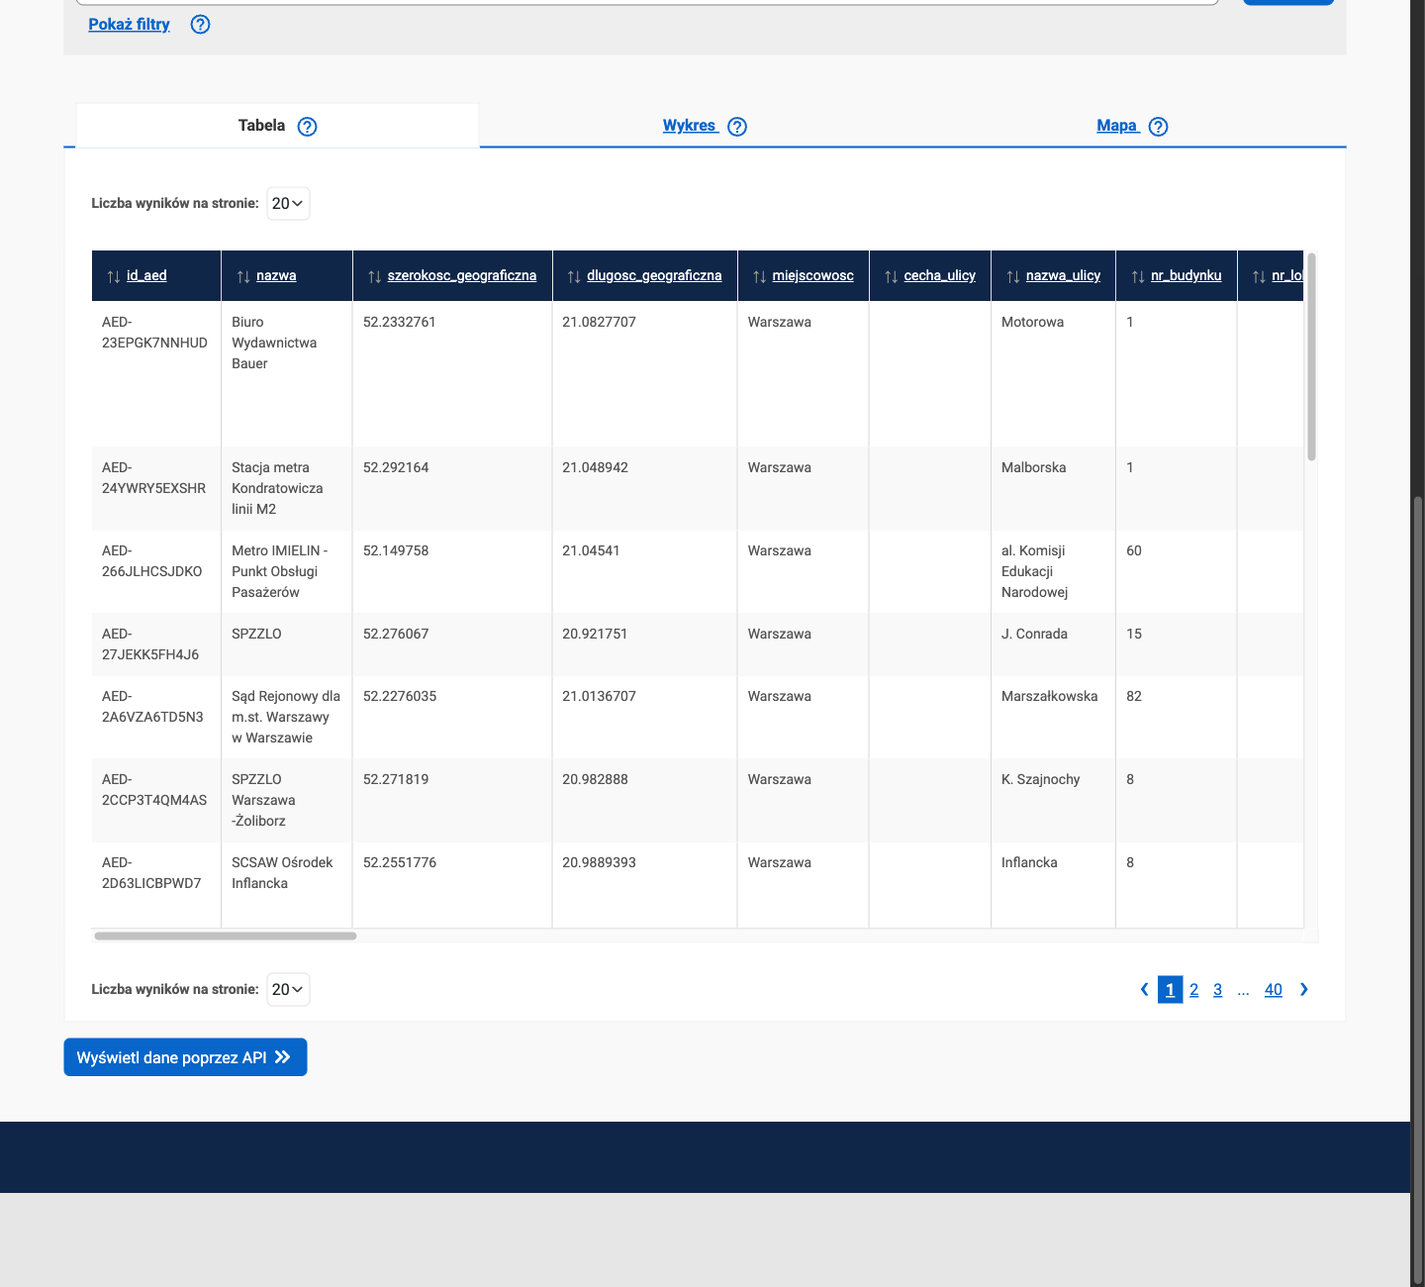
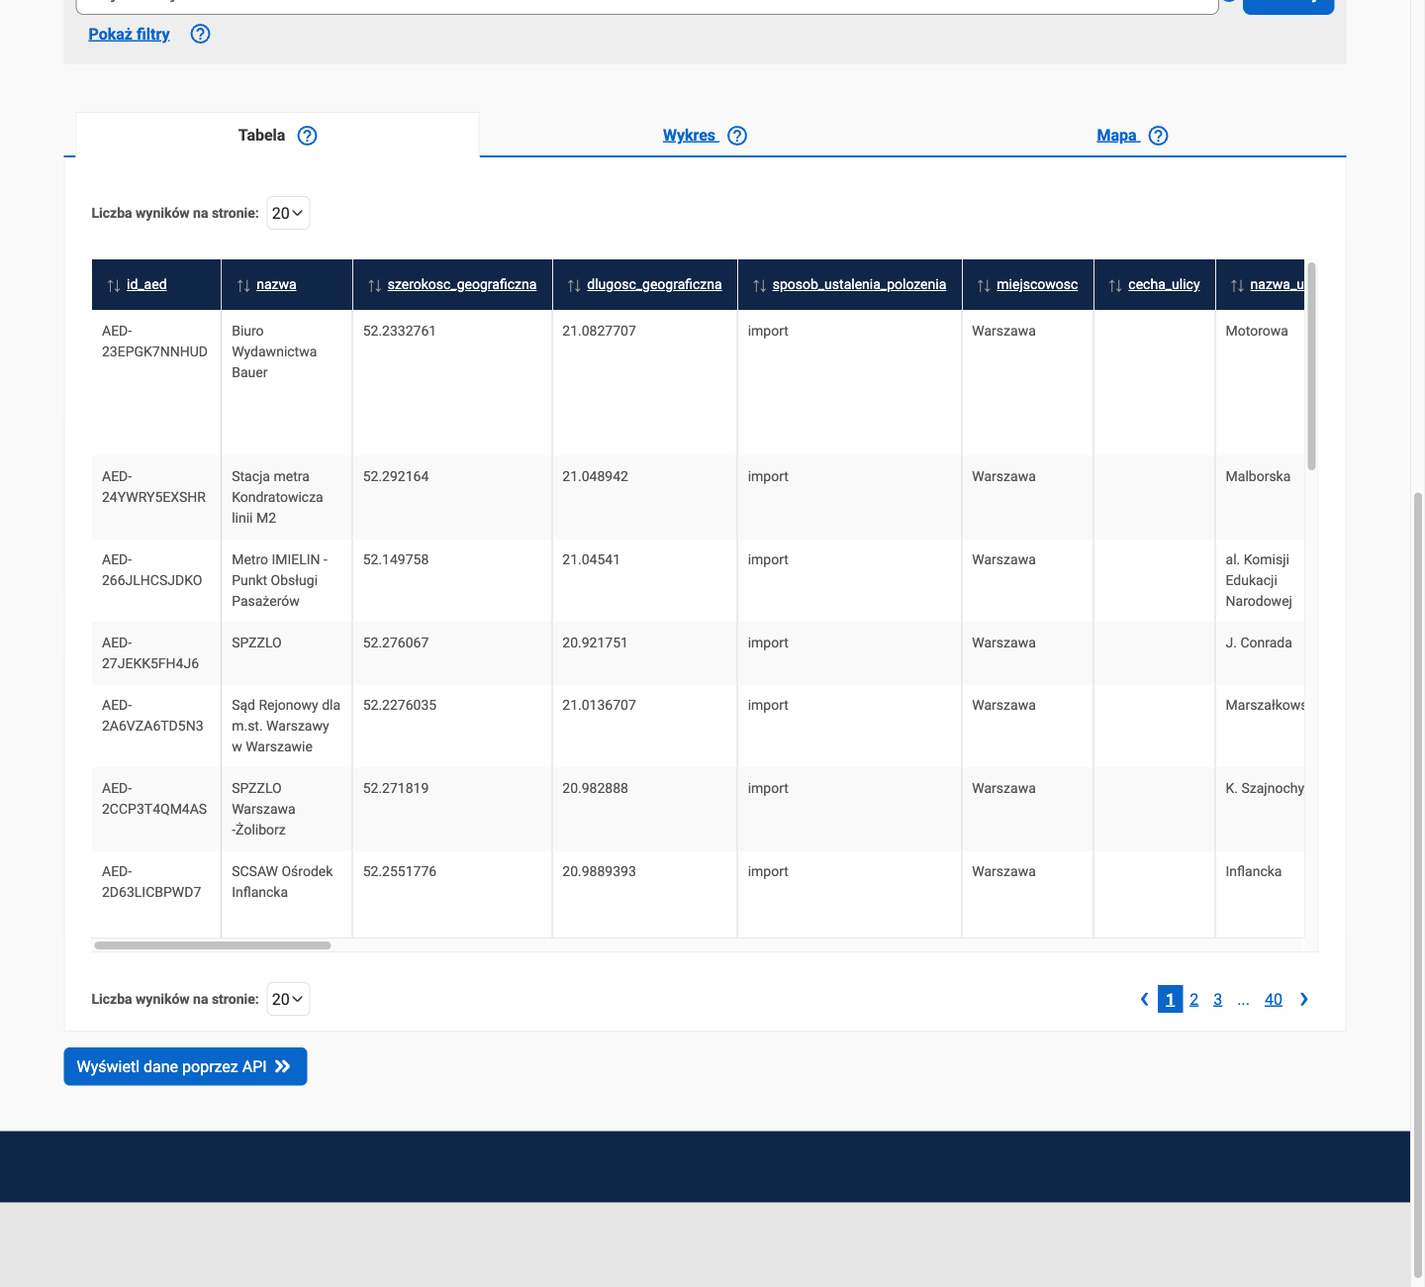
feat: portal module on data standard 0.3.0; warnings never trigger provider e-mails
- fixed descriptions for every problem code the standard can emit, guarded by a test
- lists in the 0.2.0 layout are accepted; the national list comes out with 42 columns and 'zweryfikowany'
- repeat notice depends on status, rejected rows and errors only, not on warnings or wording
- container tests after the last change: 169 passed (AED, DGA, admin, Celery), 13 API

diff --git a/backend/mcod/aed/tests/test_aed_utils.py b/backend/mcod/aed/tests/test_aed_utils.py
@@ -1,10 +1,17 @@
 """Modelled on mcod/resources/tests/test_main_dga.py. Needs the portal test stack (Postgres, Docker)."""
+import csv
 import datetime
+import io
+import re
 from pathlib import Path
 from unittest.mock import patch
 
 import pytest
 from django.core.files.uploadedfile import SimpleUploadedFile
+
+import aed_standard
+from aed_standard import schema as S
+from aed_standard.validate import WARNING
 
 from mcod.aed import constants as C
 from mcod.aed.aed_utils import (
@@ -14,10 +21,12 @@ from mcod.aed.aed_utils import (
     create_main_aed_resource_with_dataset,
     get_all_aed_list_resources,
     main_aed_tabular_schema,
+    public_report,
     update_or_create_aggr_aed_info_and_delete_old_main_aed,
     validate_aed_list_file,
 )
 from mcod.aed.models import AggregatedAEDInfo
+from mcod.aed.notifications import lists_to_notify
 from mcod.core.tests.helpers.tasks import run_on_commit_events
 from mcod.datasets.factories import DatasetFactory
 from mcod.datasets.models import Dataset
@@ -106,6 +115,47 @@ def test_main_aed_tabular_schema_has_map_markers():
     assert tds["geo"]["l"]["col_name"] == "dlugosc_geograficzna"
     assert tds["geo"]["label"]["col_name"] == "nazwa"
     assert {f["type"] for f in tds["fields"] if f.get("geo") in ("b", "l")} == {"number"}
+    # Built from the standard's column order (0.3.0: sposob_ustalenia_polozenia after the coordinates): every marker
+    # points at its own column, and every other column, pietro (integer in the standard) included, is text, so
+    # empty cells pass the portal's tabular validation.
+    assert names == S.FIELD_NAMES and len(names) == 42
+    assert all(names[m["col_index"]] == m["col_name"] for m in tds["geo"].values())
+    assert {f["name"] for f in tds["fields"] if f["type"] != "string"} == {"szerokosc_geograficzna", "dlugosc_geograficzna"}
+
+
+def test_every_standard_problem_code_has_a_public_description():
+    """The public report and the e-mail show C.PROBLEM_DESCRIPTIONS, never aed_standard's raw messages. Codes are read
+    from aed_standard's source, so a new code in the standard without a description fails here."""
+    source = "".join(p.read_text(encoding="utf-8") for p in Path(aed_standard.__file__).parent.glob("*.py"))
+    codes = set()
+    for pattern in (r'issue\([^,()]+,\s*[^,()]+,\s*(?:ERROR|WARNING),\s*"(\w+)"',  # issue(row, field, level, code, ...)
+                    r'\[\("(\w+)"',  # check_value: [(code, message)]
+                    r'fail\("(\w+)"',  # validate_csv: fail(code, message)
+                    r'code="(\w+)"'):  # wykaz.rejected(..., code="odczyt")
+        codes |= set(re.findall(pattern, source))
+    assert {"terc_bez_rodzaju", "godziny_nieczytelne", "dysponent_osoba", "wymagane_dla_zweryfikowanego"} <= codes
+    assert sorted(codes - set(C.PROBLEM_DESCRIPTIONS)) == []
+
+
+def test_list_in_schema_0_2_0_is_accepted_into_a_0_3_0_national_list():
+    """A provider's list in the 0.2.0 header (no new columns, status "aktywny") keeps working: accepted in full,
+    the 6-digit TERC is only a warning (status stays "przyjety", no e-mail), the national list has the 0.3.0
+    header and the alias becomes "zweryfikowany"."""
+    old = (DATA_DIR / "wykaz_schemat_0_2_0.csv").read_bytes()
+    assert b"sposob_ustalenia_polozenia" not in old and b",aktywny," in old
+    resource = ResourceFactory.create(contains_aed_list=True, status="published")
+
+    with patch("mcod.aed.aed_utils.read_resource_bytes", return_value=(old, None)):
+        content, report = build_main_aed_list([resource])
+
+    entry = report["wykazy"][0]
+    assert (entry["status"], entry["przyjete"], entry["wiersze"]) == ("przyjety", 2, 2)
+    assert [(p["kod"], p["poziom"]) for p in entry["problemy"]] == [("terc_bez_rodzaju", WARNING)]
+    assert public_report(report)["wykazy"][0]["problemy"][0]["opis"] == C.PROBLEM_DESCRIPTIONS["terc_bez_rodzaju"]
+    assert lists_to_notify(None, report) == []
+    rows = list(csv.DictReader(io.StringIO(content)))
+    assert list(rows[0]) == S.FIELD_NAMES
+    assert {r["status"] for r in rows} == {"zweryfikowany", "niepotwierdzony"}
 
 
 def test_update_aggr_aed_info_replaces_old_resource():
@@ -137,6 +187,7 @@ def test_main_aed_resource_end_to_end_with_portal_validation(aed_owner):
     """The task's steps on real files, with the portal's own file and tabular data validation (eager Celery)."""
     legionowo = _aed_list_resource("legionowo_resource_2625221.csv")
     krosno = _aed_list_resource("krosno_resource_54632.csv")
+    old_header = _aed_list_resource("wykaz_schemat_0_2_0.csv")
     run_on_commit_events()
 
     file_path, report = create_main_aed_file()
@@ -148,7 +199,7 @@ def test_main_aed_resource_end_to_end_with_portal_validation(aed_owner):
     clean_up_after_main_aed_resource_creation(exception_occurred=False)
 
     statuses = {w["zasob"]: w["status"] for w in report["wykazy"]}
-    assert statuses == {legionowo.pk: "przyjety", krosno.pk: "odrzucony"}
+    assert statuses == {legionowo.pk: "przyjety", krosno.pk: "odrzucony", old_header.pk: "przyjety"}
     resource.refresh_from_db()
     assert resource.format == "csv"
     assert resource.tabular_data_schema["geo"]["b"]["col_name"] == "szerokosc_geograficzna"

diff --git a/backend/mcod/aed/constants.py b/backend/mcod/aed/constants.py
@@ -61,14 +61,18 @@ PROBLEM_DESCRIPTIONS = {
     "brak_kolumny": "Brak kolumny wymaganej przez standard AED.",
     "brak_wierszy": "Plik nie zawiera wierszy z danymi.",
     "brak_wymaganego": "Brak wartości w polu wymaganym.",
+    "dane_osm": "Wiersz pochodzi z OpenStreetMap (licencja ODbL), której nie włączamy do zbioru krajowego.",
     "dane_osobowe": "Pole może zawierać dane osobowe, których nie publikujemy.",
     "data_z_przyszlosci": "Data z przyszłości.",
+    "duplikat_numeru_seryjnego": "Ten sam producent i numer seryjny występuje w wykazie więcej niż raz.",
+    "dysponent_osoba": "Nazwa dysponenta wygląda na imię i nazwisko osoby; podaj nazwę instytucji.",
     "format_csv": "Plik nie jest poprawnym plikiem CSV.",
-    "format_daty": "Data nie jest w formacie RRRR-MM-DD.",
+    "format_daty": "Data nie jest w formacie RRRR-MM-DD (albo RRRR-MM, gdzie standard na to pozwala).",
     "format_email": "Niepoprawny adres e-mail.",
     "format_liczby": "Wartość nie jest liczbą.",
     "format_liczby_calkowitej": "Wartość nie jest liczbą całkowitą.",
     "format_pola": "Wartość ma niepoprawny format.",
+    "godziny_nieczytelne": "Z godzin dostępu nie da się wyliczyć, czy urządzenie jest teraz dostępne (zapis np. 24/7 albo Mo-Fr 08:00-16:00).",
     "kod_do_szafki": "Pole może zawierać kod do szafki, którego nie publikujemy.",
     "kodowanie": "Plik nie jest zapisany w kodowaniu UTF-8.",
     "licencja": "Licencja zbioru nie pozwala włączyć wykazu do zbioru krajowego.",
@@ -83,16 +87,19 @@ PROBLEM_DESCRIPTIONS = {
     "poza_polska": "Współrzędne poza Polską.",
     "poza_zakresem": "Wartość poza dozwolonym zakresem.",
     "przecinek_dziesietny": "Liczba zapisana z przecinkiem zamiast kropki.",
+    "pole_za_dlugie": "Wartość jest za długa do odczytu; zwykle brakuje zamykającego cudzysłowu.",
     "pusta_nazwa_kolumny": "Kolumna bez nazwy.",
     "pusty_plik": "Plik jest pusty.",
     "separator": "Separatorem pól musi być przecinek.",
     "spoza_slownika": "Wartość spoza słownika standardu AED.",
+    "terc_bez_rodzaju": "Kod TERC ma 6 cyfr, bez cyfry rodzaju gminy (kanoniczny kod ma 7 cyfr).",
     "termin_minal": "Termin ważności minął.",
     "wartosc_logiczna": "Niepoprawna wartość logiczna.",
     "wiersz_w_cudzyslowie": "Cały wiersz ujęty w cudzysłów.",
     "wspolrzedne_niepelne": "Podano tylko jedną ze współrzędnych.",
     "wspolrzedne_zamienione": "Szerokość i długość geograficzna są zamienione.",
-    "wymagane_dla_aktywnego": "Brak pola wymaganego dla urządzenia aktywnego.",
+    "wymagane_dla_zweryfikowanego": "Brak pola wymaganego dla urządzenia zweryfikowanego.",
+    "wymagane_dla_aktywnego": "Brak pola wymaganego dla urządzenia zweryfikowanego.",  # code before standard 0.3.0, in stored reports
     "znak_nul": "Plik zawiera niedozwolony znak NUL.",
 }
 PROBLEM_DESCRIPTION_DEFAULT = "Niezgodność ze standardem AED."

diff --git a/backend/mcod/aed/tests/test_notifications.py b/backend/mcod/aed/tests/test_notifications.py
@@ -90,3 +90,25 @@ def test_mail_backend_error_marks_all_entries():
     with patch("mcod.aed.notifications.get_connection", side_effect=RuntimeError("no backend")):
         report = _merge(resource, KROSNO)
     assert all(w.get("powiadomienie_oczekuje") for w in report["wykazy"])
+
+
+def test_warnings_alone_never_send_mail():
+    """Warnings (e.g. a 6-digit TERC, standard 0.3.0) do not lower the list's status and do not send or repeat the
+    mail: a list accepted with warnings gets none, and a partly accepted list is not mailed again when only its
+    warnings change."""
+    header = "nazwa,miejscowosc,kod_terc,szerokosc_geograficzna,dlugosc_geograficzna,dostep\n"
+    good, warned = "Urząd,Legionowo,1408011,52.395198,20.931382,publiczny\n", "Urząd,Legionowo,140801,52.395198,20.931382,publiczny\n"
+    outside = "Szkoła,Legionowo,,10.0,10.0,publiczny\n"  # coordinates outside Poland: the row is rejected
+
+    first = _provider_list()
+    accepted = _merge(first, (header + warned).encode("utf-8"))
+    assert accepted["wykazy"][0]["status"] == "przyjety" and accepted["wykazy"][0]["problemy"][0]["kod"] == "terc_bez_rodzaju"
+    assert len(mail.outbox) == 0
+
+    first.contains_aed_list = False  # out of the next merges
+    first.save()
+    resource = _provider_list()
+    _merge(resource, (header + good + outside).encode("utf-8"))
+    assert len(mail.outbox) == 1 and mail.outbox[0].subject.startswith("Wykaz AED przyjęty częściowo")
+    _merge(resource, (header + warned + outside).encode("utf-8"))  # same errors, one warning more
+    assert len(mail.outbox) == 1

diff --git a/backend/mcod/aed/notifications.py b/backend/mcod/aed/notifications.py
@@ -36,8 +36,10 @@ def public_problem(p: Dict[str, Any]) -> Dict[str, Any]:
 
 
 def _signature(entry: Dict[str, Any]):
-    problems = tuple((p["wiersz"], p["pole"], p["kod"], p["komunikat"]) for p in entry.get("problemy", []))
-    return entry["status"], entry.get("wiersze", 0) - entry.get("przyjete", 0), entry.get("problemy_razem", 0), problems
+    """What the provider is told about: status, rejected rows and the errors by code. Warnings and aed_standard's
+    wording are left out, so a new warning or a reworded message in the standard does not send the mail again."""
+    errors = tuple((p["wiersz"], p["pole"], p["kod"]) for p in entry.get("problemy", []) if p.get("poziom") == ERROR)
+    return entry["status"], entry.get("wiersze", 0) - entry.get("przyjete", 0), errors
 
 
 def lists_to_notify(old_report: Optional[Dict[str, Any]], new_report: Dict[str, Any]) -> List[Dict[str, Any]]:

diff --git a/docs/wykaz-aed-w-portalu.md b/docs/wykaz-aed-w-portalu.md
@@ -319,3 +319,39 @@ Harvestera XML na pliku z usługi (`/api/aed/eksport/dane-gov-pl.xml`) nie uruch
 - Odrzucenie Krosna: na górze formularza ogólny komunikat Django „Proszę, popraw poniższy błąd.”, przy polu 10 komunikatów po polsku z instrukcją („Popraw nazwę zgodnie z arkuszem „Słownik pól” albo usuń kolumnę”, „Czy chodziło o „nazwa”?”, „Dodaj ją do nagłówka”). Po błędzie panel czyści pole pliku – zachowanie oryginalnego portalu.
 - Legionowo w zbiorze jury – zapisane; przełączenie TAK → NIE → TAK – zapisane; Legionowo z TAK w zbiorze Legionowa (konto jury) – odmowa „Wykaz AED można oznaczyć tylko w zbiorze swojej instytucji.”. Zasoby testowe usunięte.
 - Zbiór 4214: CC BY 4.0 z warunkami, kategoria Zdrowie, tagi AED / defibrylator / wykaz zbiorczy, „Codziennie”. Opisy zbioru i zasobu w bazie demo były starsze niż stałe w `constants.py` (scalanie przenosi opis poprzedniego zasobu, jak DGA – ręczna zmiana redaktora zostaje); w danych demo nadpisane bieżącym tekstem. Mapy i wykresy zasobu zbiorczego: `nazwa` = Etykieta, `szerokosc_geograficzna` = Szerokość, `dlugosc_geograficzna` = Długość geograficzna.
+
+## Standard 0.3.0 w portalu (22.11, ok. 06:30–07:30)
+
+**Dla dostawcy nic się nie zmienia.** Wykaz w nagłówku 0.2.0 (38 kolumn, bez `sposob_ustalenia_polozenia`, `pietro`, `stan_urzadzenia`, `data_stanu`, ze statusem `aktywny`) jest przyjmowany jak dotąd: brakujące kolumny są opcjonalne, `aktywny` to alias zamieniany na `zweryfikowany`. Formularz panelu i scalanie czytają plik tym samym `aed_standard`, więc nie trzeba zmieniać ani plików, ani zaczepów portalu.
+
+**Wykaz krajowy (zasób zbiorczy) ma nagłówek 0.3.0 – 42 kolumny** w kolejności z `aed_standard/schema.json`:
+
+```
+id_aed,nazwa,szerokosc_geograficzna,dlugosc_geograficzna,sposob_ustalenia_polozenia,miejscowosc,cecha_ulicy,nazwa_ulicy,nr_budynku,nr_lokalu,kod_pocztowy,kod_terc,kod_simc,opis_lokalizacji,wewnatrz_budynku,pietro,dostep,godziny_dostepu,godziny_dostepu_opis,producent,model,numer_seryjny,data_produkcji,data_waznosci_elektrod,data_waznosci_baterii,dysponent_nazwa,dysponent_regon,dysponent_email,dysponent_telefon,wprowadzajacy_typ,wprowadzajacy_nazwa,status,data_weryfikacji,sposob_weryfikacji,stan_urzadzenia,data_stanu,data_aktualizacji,zrodlo,zrodlo_id,licencja,powiazane_zrodla,kompletnosc
+```
+
+`main_aed_tabular_schema()` buduje schemat zasobu zbiorczego z tej listy, więc znaczniki mapy idą za kolumnami: `b` = `szerokosc_geograficzna` (indeks 2), `l` = `dlugosc_geograficzna` (3), `label` = `nazwa` (1). Liczbami są tylko współrzędne; reszta, w tym `pietro` (w standardzie liczba całkowita) i daty `RRRR-MM`, jest tekstem, więc puste komórki przechodzą walidację portalu. Wykaz dostawcy bez `sposob_ustalenia_polozenia` dostaje przy scalaniu `import`, gdy ma współrzędne (reguła `aed_standard/wykaz.py`).
+
+Zmiany w `mcod/aed`:
+
+- `constants.py`: stałe opisy dla kodów `wymagane_dla_zweryfikowanego` (dawny `wymagane_dla_aktywnego` zostaje jako alias dla raportów zapisanych w bazie), `terc_bez_rodzaju`, `godziny_nieczytelne`, `dysponent_osoba` oraz dla kodów, które wcześniej nie miały opisu i trafiały do raportu jako „Niezgodność ze standardem AED.”: `dane_osm`, `duplikat_numeru_seryjnego`, `pole_za_dlugie`; opis `format_daty` dopuszcza `RRRR-MM`.
+- Test `test_every_standard_problem_code_has_a_public_description` czyta kody ze źródeł `aed_standard` (wywołania `issue(...)`, `check_value`, `fail(...)`, `rejected(code=...)`) i porównuje z `PROBLEM_DESCRIPTIONS` – kolejny kod w standardzie bez opisu zatrzyma testy.
+- `notifications.py`: podpis wyniku wykazu, od którego zależy ponowny e-mail, to status, liczba odrzuconych wierszy i **błędy** (wiersz, pole, kod). Wcześniej obejmował też ostrzeżenia i surowe komunikaty `aed_standard`, więc nowe ostrzeżenie albo zmiana brzmienia komunikatu w standardzie wysyłały dostawcy ten sam e-mail drugi raz. Tak stało się przy pierwszym scalaniu po 0.3.0: Krosno (odrzucone, bez zmian w pliku) dostało ponowną wiadomość o 06:41 (MailHog), choć jego plik i kody błędów się nie zmieniły (wcześniejsze scalania 03:47–05:01 nie wysyłały nic) – zmieniła się treść komunikatów `aed_standard` 0.3.0 zapisana w raporcie. Po poprawce test `test_warnings_alone_never_send_mail`.
+- Testy: `test_list_in_schema_0_2_0_is_accepted_into_a_0_3_0_national_list` (plik `tests/data/wykaz_schemat_0_2_0.csv`: nagłówek 0.2.0, wiersz Warszawy ze statusem `aktywny`, wiersz Legionowa z 6-cyfrowym TERC – przyjęty w całości, jedno ostrzeżenie, bez e-maila, wykaz krajowy w nagłówku 0.3.0 ze statusem `zweryfikowany`); test schematu tabeli (42 kolumny, znaczniki na właściwych kolumnach, poza współrzędnymi tylko tekst); test od końca do końca przez walidację portalu ma dodatkowo ten plik 0.2.0.
+
+Słowo „aktywny” jako wartość statusu nie występowało w kodzie, szablonach e-mail ani tekstach pomocy modułu (`grep -rn aktywn backend/mcod/aed backend/mcod/templates`) poza opisem kodu problemu.
+
+### Sprawdzenia w stosie po restarcie `mcod-admin`, `mcod-api`, `mcod-celery`
+
+`mcod-api` przed restartem nie działał: zakończył się przy przeładowaniu w trakcie zmiany `aed_standard` (`ImportError: cannot import name 'readable' from 'aed_standard.hours'`); po restarcie importuje się poprawnie.
+
+- `create_main_aed_resource --dry-run`: 3 wykazy, 2 przyjęte – Legionowo 24/24 (`przyjety`, 24 ostrzeżenia `terc_bez_rodzaju`), eksport usługi w portalu (zasób 40229, nagłówek 0.2.0, 38 kolumn) 782/782 (`przyjety`, 24 ostrzeżenia `terc_bez_rodzaju` z rekordów Legionowa); Krosno odrzucone (6 × `nieznana_kolumna`, 4 × `brak_kolumny`). 806 rekordów z wykazów, 24 połączenia, 1 do przeglądu, **782 w wykazie krajowym**, średnia kompletność 55,9 (wcześniej 51,4 – kompletność liczona już tylko z pól publicznych).
+- Ostrzeżenia nie obniżają statusu wykazu: Legionowo i eksport usługi mają `przyjety`, nie `czesciowo` (status zależy tylko od błędów, `aed_standard/wykaz.py`). `/aed-aggregated` pokazuje je ze stałym opisem, np. `{"kod": "terc_bez_rodzaju", "poziom": "ostrzezenie", "opis": "Kod TERC ma 6 cyfr, bez cyfry rodzaju gminy (kanoniczny kod ma 7 cyfr)."}`. E-mail za same ostrzeżenia nie wychodzi (wykaz `przyjety` nie jest powiadamiany, a od poprawki ostrzeżenia nie zmieniają podpisu wyniku).
+- Scalanie właściwe: zasób zbiorczy 40230 → **40231**, 782 wiersze, **42 kolumny**, walidacja pliku, danych i linku SUCCESS, `openness_score` 3, `visualization_types` `["map", "table"]`, `/resources/40231/data` – 782 rekordy z 42 polami. `GET /aed-aggregated` 200; `/aed-aggregated/resource` → 302 `…/resources/40231`, `/aed-aggregated/file` → 302 `…/resources/40231/file`.
+- Urządzenie `AED-PRIFSO7R4SNZ` jest w wykazie krajowym raz, ze statusem `zweryfikowany` (eksport usługi miał `aktywny`, alias zamieniony przy odczycie). `stan_urzadzenia` jest pusty, a `sposob_ustalenia_polozenia` = `import`, bo zasób 40229 to eksport starej usługi bez tych kolumn. Po przebudowie prototypu trzeba wgrać nowy eksport (nowa usługa daje dla tego urządzenia `zweryfikowany` i `gotowy`, sprawdzone na kopii bazy) i ponownie scalić.
+- Przeglądarka (Playwright, 1440 px, `ng serve --port 4309 --no-prebundle` z plikiem proxy jak wyżej): tabela zasobu 40231 ma 42 kolumny w nowej kolejności (`sposob_ustalenia_polozenia` po współrzędnych), 40 stron; mapa – klastry 740 + 21 + 21 = 782. Zrzuty `portal-06-tabela.png` i `portal-07-mapa.png` podmienione.
+- Kopia bazy lekkiego prototypu (`docker cp aed-aed-service-1:/data/aed_service.db`) uruchomiona nowym kodem usługi poza Dockerem (port 8097): start bez błędów, `AED-PRIFSO7R4SNZ` ma `status: zweryfikowany`, `stan_urzadzenia: gotowy`, `data_stanu: 2026-11-22`; eksport CSV 782 rekordy (jak przed migracją) i 42 kolumny (stary obraz: 38). Prototyp na porcie 8080 nietknięty.
+
+Testy w kontenerze po ostatniej zmianie (komendy z „Jak powtórzyć”): `mcod/aed` razem z regresją DGA, panelu i Celery (`test_main_dga.py`, `test_dga_utils.py`, `test_dga_migrate.py`, `test_admin/test_admin.py`, `mcod/tests/test_celery.py`) – **169 passed** (8 min 52 s); komponent API `test_api.py` + `aed/tests/test_views.py -k "dga or aed"` – **13 passed**.
+
+Ograniczenie (do decyzji, w `aed_standard`): wykaz bez `sposob_ustalenia_polozenia` dostaje `import` także dla rekordu potwierdzonego przez zarządcę (`wprowadzajacy_typ` producent, `sposob_weryfikacji` qr) – tak jest dziś z `AED-PRIFSO7R4SNZ` z eksportu starej usługi.

diff --git a/docs/panel-portalu-krok-po-kroku.md b/docs/panel-portalu-krok-po-kroku.md
@@ -60,8 +60,11 @@ Licencja: portal nie ma pola „licencja” do wyboru wprost. Zaznaczenie warunk
    | `kod_terc` | Liczba całkowita | Dane tekstowe |
    | `kod_simc` | Liczba całkowita | Dane tekstowe (inaczej zginie zero wiodące, np. `0920806`) |
    | `zrodlo_id` | Liczba całkowita | Dane tekstowe |
-   | `kompletnosc` | Liczba całkowita | Dane tekstowe (tak zrobiono 22.11; liczba całkowita też powinna przejść – wniosek, niesprawdzone) |
+   | `kompletnosc` | Liczba całkowita | bez zmian albo Dane tekstowe (liczba całkowita przechodzi – sprawdzone 22.11 na pliku 0.3.0) |
    | `szerokosc_geograficzna`, `dlugosc_geograficzna` | Liczba zmiennoprzecinkowa | bez zmian – wymagane dla mapy |
+   | `data_aktualizacji` | Data | bez zmian (wypełniona w każdym wierszu) |
+
+   Standard 0.3.0 (42 kolumny) nie zmienia tej listy dla obecnego pliku: typ wykrywany przez portal (`mcod/resources/type_guess.py`, ten sam kod co w Celery) uruchomiony 22.11 w kontenerze `mcod-admin` na wykazie krajowym 0.3.0 dał liczby całkowite w `nr_budynku`, `kod_terc`, `kod_simc`, `zrodlo_id`, `kompletnosc` i datę w `data_aktualizacji`; walidacja goodtables tym schematem zgłosiła błędy tylko w `nr_budynku`, `kod_terc`, `kod_simc` i `zrodlo_id`. Nowe kolumny są dziś puste albo tekstowe (`sposob_ustalenia_polozenia` = `import`), więc portal daje im typ dowolny lub tekst. **Gdy zaczną być wypełniane rzadko**, zmień na „Dane tekstowe” także: `pietro` (w standardzie liczba całkowita), `data_stanu`, `data_weryfikacji` oraz `data_produkcji`, `data_waznosci_elektrod`, `data_waznosci_baterii` (w 0.3.0 przyjmują też `RRRR-MM`, więc i tak nie są typem „Data”) – pusta komórka w kolumnie liczbowej albo datowej to błąd walidacji. Pozycje kolumn zmieniły się w 0.3.0 (np. `nr_budynku` to kolumna 9, `kod_terc` 12, `kod_simc` 13, `zrodlo_id` 39), więc komunikaty „kolumna N” z wcześniejszych zrzutów nie pasują do nowych plików. Zasobu zbiorczego to nie dotyczy: scalanie ustawia mu schemat (wszystko tekstem poza współrzędnymi).
 
    Sprawdzone 22.11 na lokalnym stosie: po zmianie tych pięciu kolumn na tekst i kliknięciu „Zmień typ” walidacja danych po ok. 20 s ma status SUCCESS (zrzut `docs/zrzuty/portal-11-typy-kolumn.png`). Dlaczego tak jest – patrz sekcja „CSV a walidacja portalu”. Zapis zmienionego schematu uruchamia ponowną walidację (`resources/admin.py:888-912`).
 4. Zakładka **„Mapy i wykresy”** – zestaw „współrzędne geograficzne” (`resources/forms.py:131-158`, opisy ról w `settings/base.py:1840-1861`):
